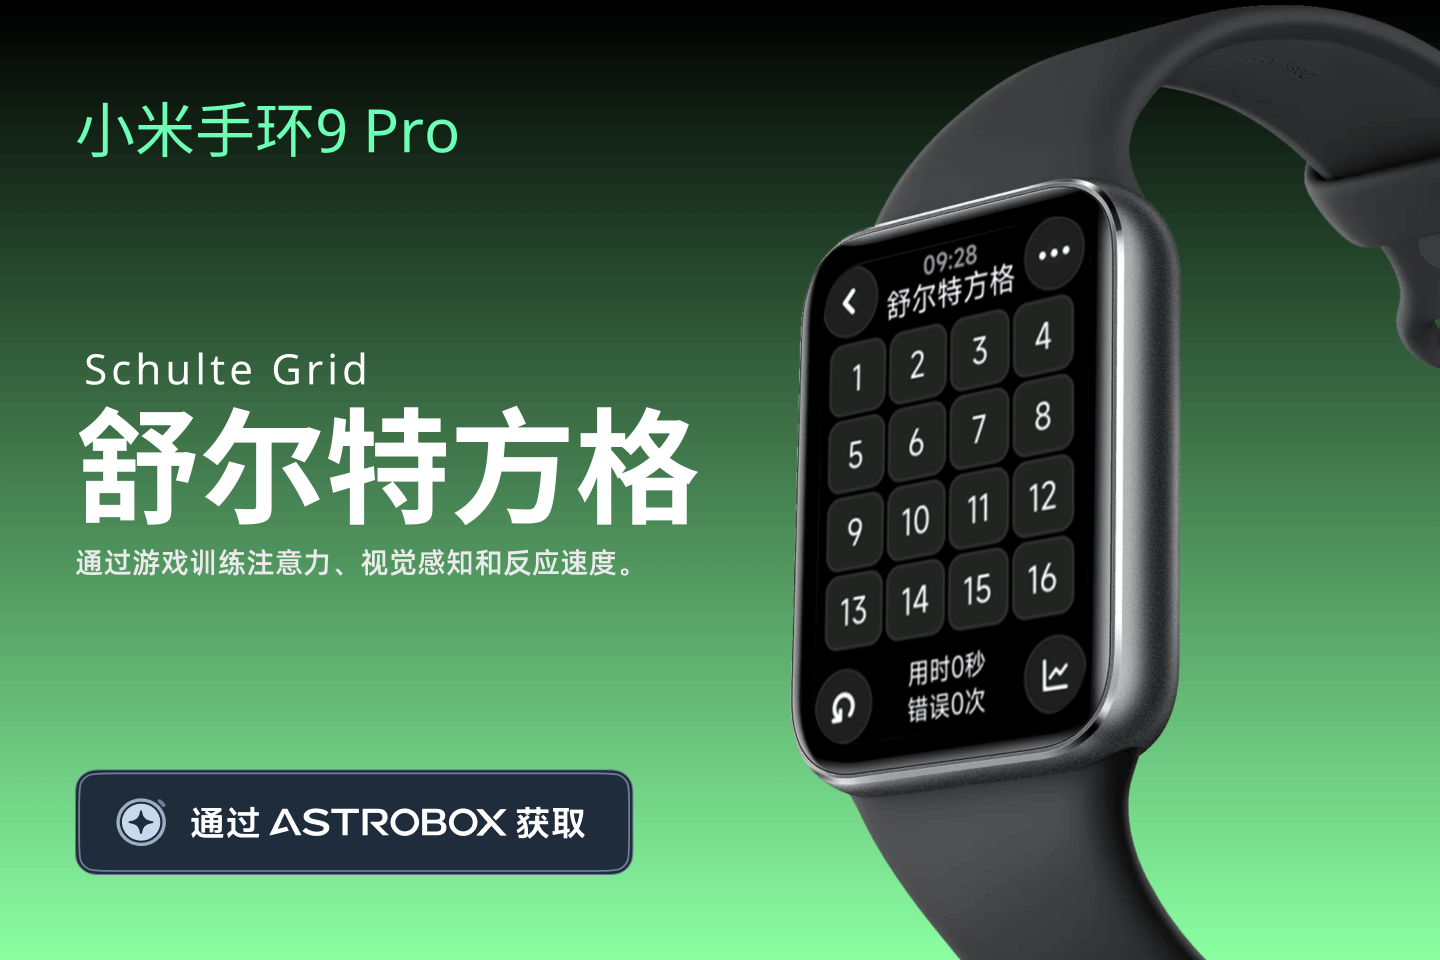
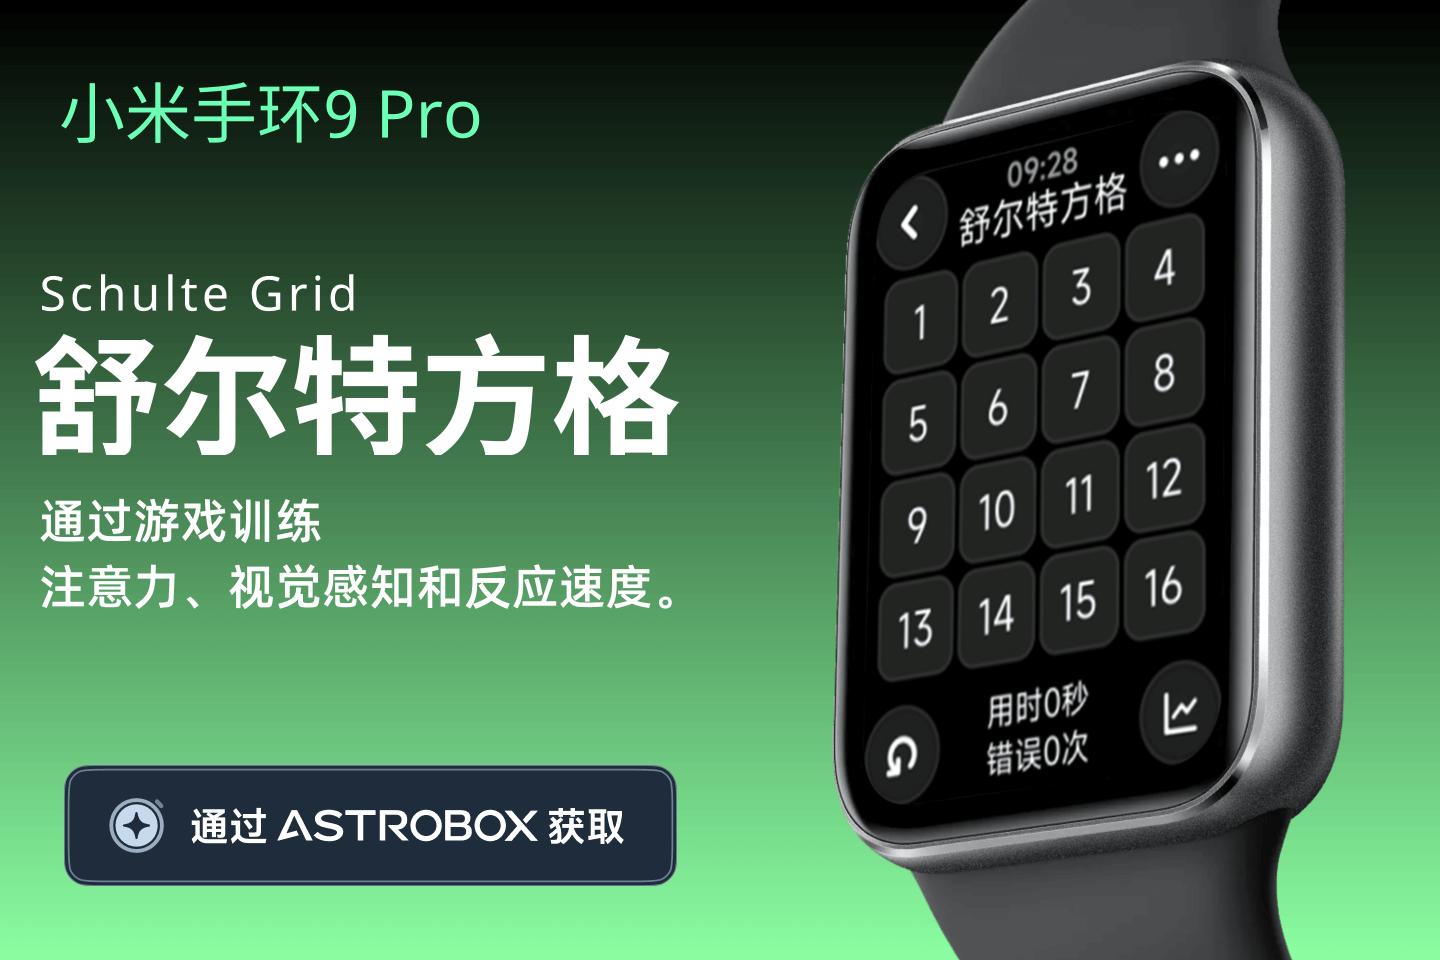
v1.1.1
修复了图标统计页面平均速度显示NaN的情况。
放大了封面图；增加了预览图。

diff --git a/README.md b/README.md
@@ -1,1 +1,19 @@
 # AstroBox_Schulte
+
+> 这是“舒尔特方格”快应用在[AstroBox](https://astrobox.online/)发布时所需的资源仓库，如需下载请到本页下方查看下载链接。
+
+## 什么是舒尔特方格？
+舒尔特方格（Schulte Grid）是一种用来训练注意力、视觉感知和反应速度的心理训练工具，最初由德国心理学家沃尔特·舒尔特（Walter Schulte）在20世纪提出，常用于飞行员、宇航员的专注力训练，后来被广泛推广到普通人的注意力提升练习中。
+
+## 怎么使用？
+打开本程序，点击数字1即可自动开始计时。按照数字从小到大的顺序，尽快地点击16个数字，游戏结束后查看计时，就这么简单。
+如果不小心点错了，或者因为设备屏幕问题没有识别到，也无需担心，程序会自动高亮你需要点击的数字，点击它即可。
+- 点击左下角的圆箭头，重置游戏。
+- 点击“用时x秒”可以查看最快速度纪录，每次破纪录自动保存。
+- 点击“错误x次”可以查看提示。
+
+# 下载
+
+米坛社区：https://www.bandbbs.cn/resources/3203/
+
+AstroBox：https://astrobox.online/open?source=res&res=%E8%88%92%E5%B0%94%E7%89%B9%E6%96%B9%E6%A0%BC&provider=official
